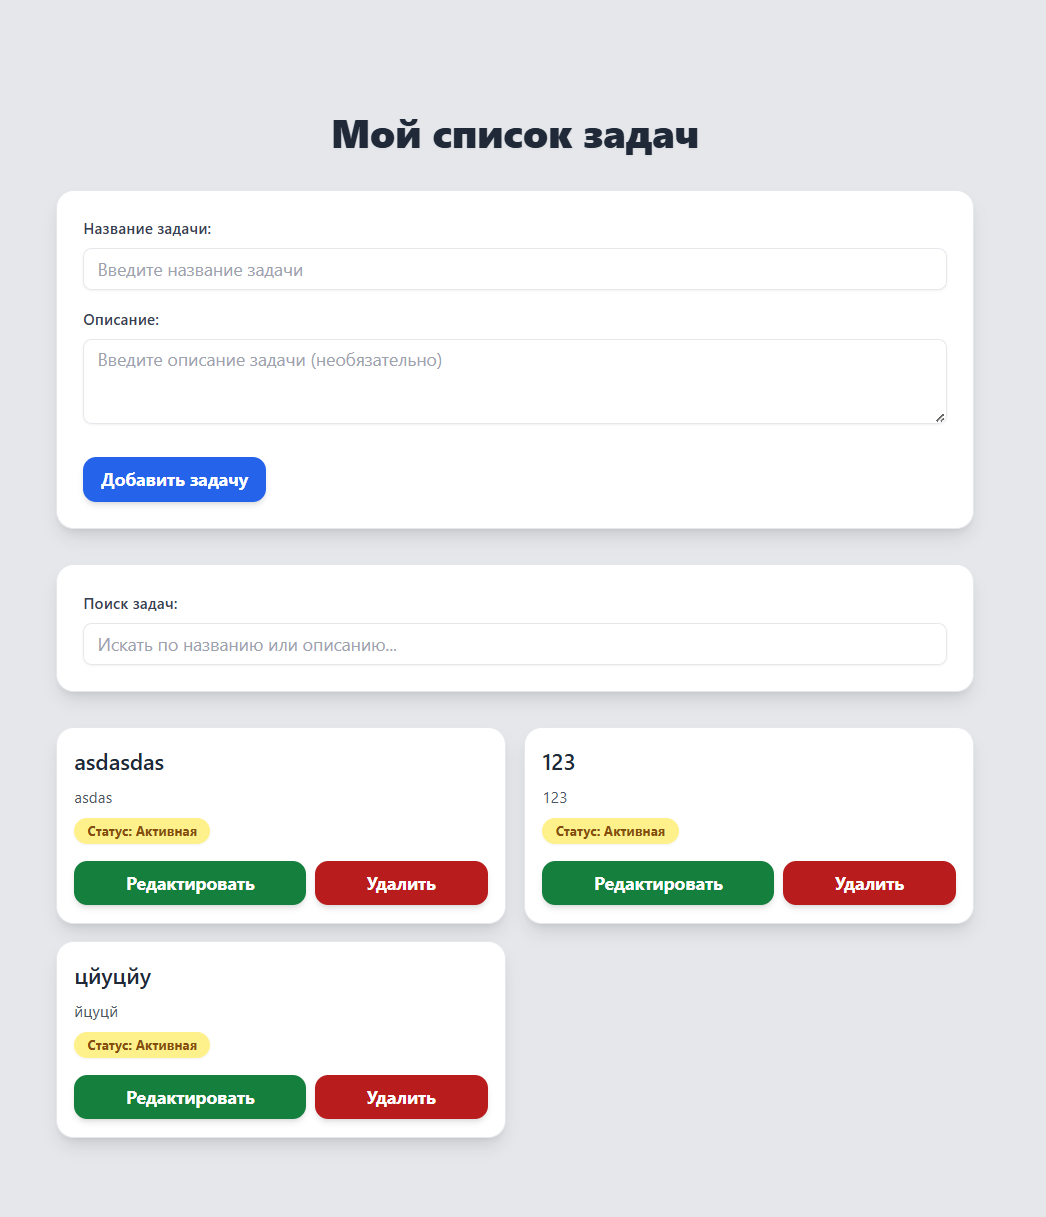
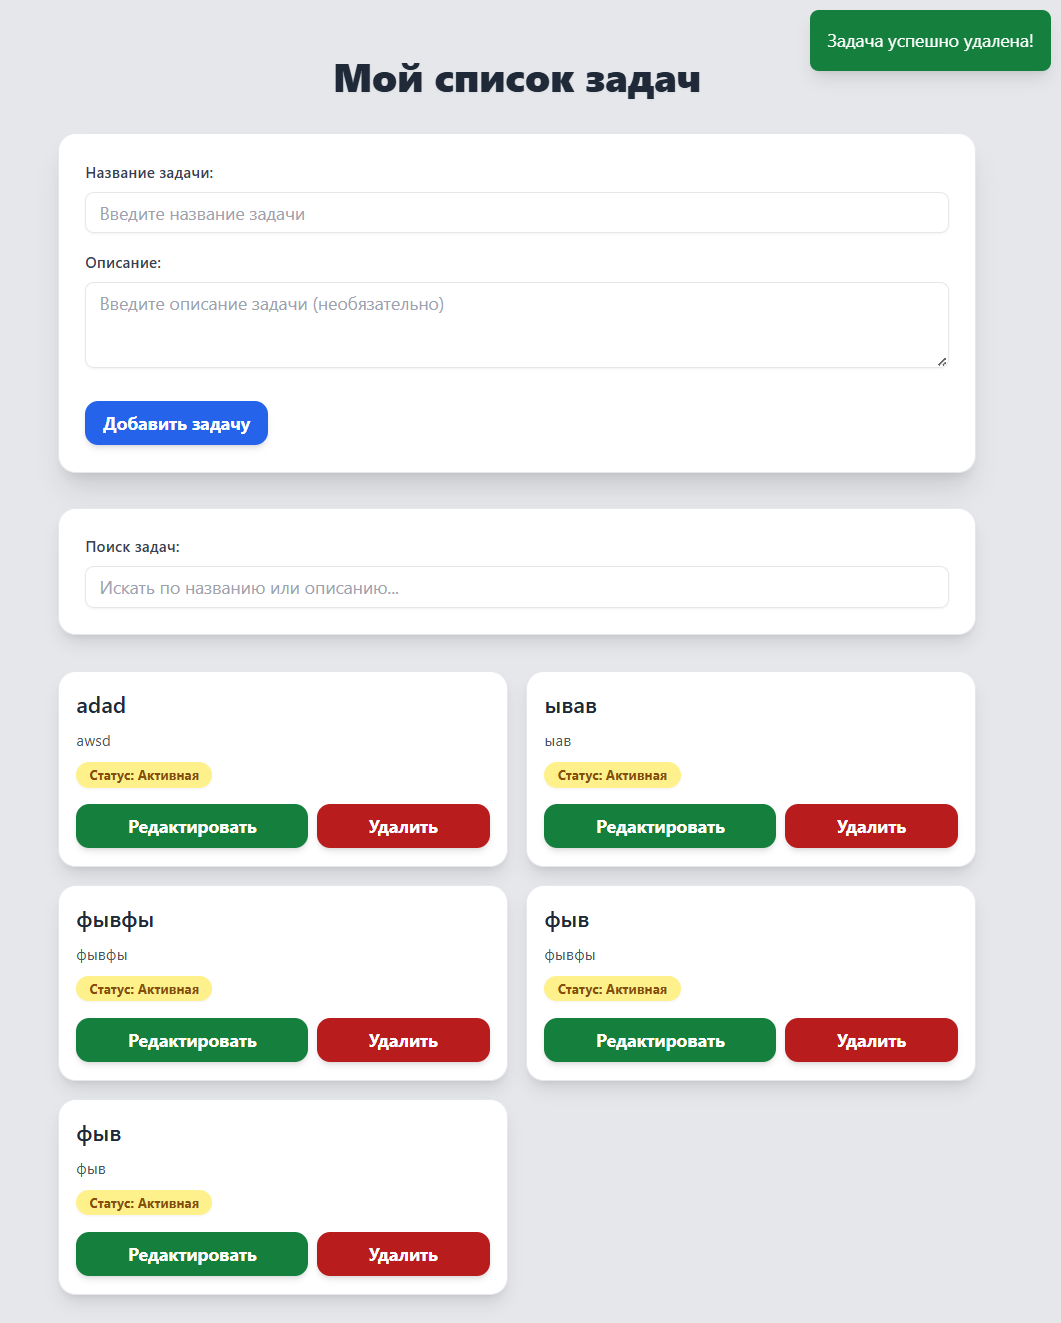
Added search and animation

diff --git a/src/routes/+page.svelte b/src/routes/+page.svelte
@@ -1,32 +1,23 @@
 <script lang="ts">
-	// Импорт необходимых модулей Svelte
 	import { onMount } from 'svelte';
 	import { writable, derived } from 'svelte/store';
-	import { flip } from 'svelte/animate'; // Импорт для анимации
+	import { flip } from 'svelte/animate';
+	import { fly, fade } from 'svelte/transition';
 
-	// Импорт библиотеки Dexie для работы с IndexDB
 	import Dexie from 'dexie';
 
-	// Определение интерфейса для задачи
 	interface Task {
-		id?: number; // ID будет генерироваться автоматически Dexie
+		id?: number;
 		title: string;
 		description?: string;
 		status: 'active' | 'completed';
 	}
 
-	// Создание экземпляра базы данных Dexie
-	// 'todoDatabase' - название базы данных
-	// 'tasks' - название таблицы (store)
-	// '++id' - автоинкрементный первичный ключ
-	// '&title' - уникальный индекс по полю title (для поиска)
-	// 'status' - индекс по полю status
 	const db = new Dexie('todoDatabase');
 	db.version(1).stores({
-		tasks: '++id, title, description, status' // Определение схемы таблицы
+		tasks: '++id, title, description, status'
 	});
 
-	// Инициализация базы данных начальными данными, если она пуста
 	db.on('populate', async () => {
 		await db.table('tasks').bulkAdd([
 			{ title: 'Купить продукты', description: 'Молоко, хлеб, яйца', status: 'active' },
@@ -35,26 +26,21 @@
 		]);
 	});
 
-	// Svelte Store для хранения списка задач
 	const tasks = writable<Task[]>([]);
 
-	// Переменные для полей формы
 	let newTaskTitle: string = '';
 	let newTaskDescription: string = '';
-	let editingTask: Task | null = null; // Хранит задачу, которая сейчас редактируется
+	let editingTask: Task | null = null;
 
-	// Переменная для поискового запроса, теперь это Svelte Store
 	const searchQuery = writable<string>('');
 
-	// Derived store для фильтрации задач по поисковому запросу
 	const filteredTasks = derived(
-		[tasks, searchQuery], // Зависимости: основной список задач и поисковый запрос
+		[tasks, searchQuery],
 		([$tasks, $searchQuery], set) => {
 			const lowerCaseQuery = $searchQuery.toLowerCase().trim();
 			if (!lowerCaseQuery) {
-				set($tasks); // Если запрос пуст, показываем все задачи
+				set($tasks);
 			} else {
-				// Фильтруем задачи по названию или описанию (без учета регистра)
 				const filtered = $tasks.filter(task =>
 					task.title.toLowerCase().includes(lowerCaseQuery) ||
 					(task.description && task.description.toLowerCase().includes(lowerCaseQuery))
@@ -64,151 +50,108 @@
 		}
 	);
 
-	// Переменные для кастомного модального окна
-	let showModal: boolean = false;
-	let modalMessage: string = '';
-	let isConfirmModal: boolean = false;
-	let confirmAction: (() => void) | null = null; // Функция, которая будет выполнена при подтверждении
-
-	// Флаг состояния загрузки для скелетона
 	let isLoading: boolean = true;
 
-	// Функция для отображения кастомного алерта
-	function showAlert(message: string) {
-		modalMessage = message;
-		isConfirmModal = false;
-		showModal = true;
+	const notifications = writable<{ id: number; message: string; type: 'success' | 'error' }[]>([]);
+	let notificationIdCounter = 0;
+
+	function addNotification(message: string, type: 'success' | 'error') {
+		const id = notificationIdCounter++;
+		notifications.update(n => [...n, { id, message, type }]);
+		setTimeout(() => {
+			notifications.update(n => n.filter(notification => notification.id !== id));
+		}, 2000);
 	}
 
-	// Функция для отображения кастомного окна подтверждения
-	function showConfirm(message: string, action: () => void) {
-		modalMessage = message;
-		isConfirmModal = true;
-		confirmAction = action;
-		showModal = true;
-	}
-
-	// Функция для закрытия модального окна
-	function closeModal() {
-		showModal = false;
-		modalMessage = '';
-		isConfirmModal = false;
-		confirmAction = null;
-	}
-
-	// Функция для подтверждения действия в модальном окне
-	function handleConfirm() {
-		if (confirmAction) {
-			confirmAction();
-		}
-		closeModal();
-	}
-
-	// Функция для загрузки задач из IndexDB
 	async function loadTasks() {
-		isLoading = true; // Устанавливаем флаг загрузки в true
+		isLoading = true;
 		try {
 			const allTasks = await db.table<Task>('tasks').toArray();
-			tasks.set(allTasks); // Обновляем Svelte Store
+			tasks.set(allTasks);
 		} catch (error) {
 			console.error('Ошибка при загрузке задач:', error);
-			showAlert('Ошибка при загрузке задач. Пожалуйста, попробуйте позже.');
+			addNotification('Ошибка при загрузке задач. Пожалуйста, попробуйте позже.', 'error');
 		} finally {
-			isLoading = false; // Устанавливаем флаг загрузки в false после завершения
+			isLoading = false;
 		}
 	}
 
-	// Функция для добавления или обновления задачи
 	async function handleSubmit() {
-		// Проверяем, что название задачи не пустое
 		if (!newTaskTitle.trim()) {
-			showAlert('Название задачи не может быть пустым!');
+			addNotification('Название задачи не может быть пустым!', 'error');
 			return;
 		}
 
 		if (editingTask) {
-			// Режим редактирования
 			try {
 				await db.table('tasks').update(editingTask.id!, {
 					title: newTaskTitle.trim(),
 					description: newTaskDescription.trim(),
 				});
 				console.log('Задача обновлена успешно!');
-				showAlert('Задача успешно обновлена!');
+				addNotification('Задача успешно обновлена!', 'success');
 			} catch (error) {
 				console.error('Ошибка при обновлении задачи:', error);
-				showAlert('Ошибка при обновлении задачи. Пожалуйста, попробуйте позже.');
+				addNotification('Ошибка при обновлении задачи. Пожалуйста, попробуйте позже.', 'error');
 			} finally {
-				editingTask = null; // Сбрасываем режим редактирования
+				editingTask = null;
 			}
 		} else {
-			// Режим добавления новой задачи
 			const task: Task = {
 				title: newTaskTitle.trim(),
 				description: newTaskDescription.trim(),
-				status: 'active', // Новая задача всегда активна
+				status: 'active',
 			};
 			try {
 				await db.table('tasks').add(task);
 				console.log('Задача добавлена успешно!');
-				showAlert('Задача успешно добавлена!');
+				addNotification('Задача успешно добавлена!', 'success');
 			} catch (error) {
 				console.error('Ошибка при добавлении задачи:', error);
-				showAlert('Ошибка при добавлении задачи. Пожалуйста, попробуйте позже.');
+				addNotification('Ошибка при добавлении задачи. Пожалуйста, попробуйте позже.', 'error');
 			}
 		}
 
-		// Очищаем форму и перезагружаем задачи
 		newTaskTitle = '';
 		newTaskDescription = '';
 		await loadTasks();
 	}
 
-	// Функция для перехода в режим редактирования
 	function editTask(task: Task) {
 		editingTask = task;
 		newTaskTitle = task.title;
 		newTaskDescription = task.description || '';
 	}
 
-	// Функция для удаления задачи
 	async function deleteTask(id: number | undefined) {
-		if (id === undefined) return; // Проверка на undefined ID
+		if (id === undefined) return;
 
-		// Используем кастомное окно подтверждения
-		showConfirm('Вы уверены, что хотите удалить эту задачу?', async () => {
-			try {
-				await db.table('tasks').delete(id);
-				console.log('Задача удалена успешно!');
-				showAlert('Задача успешно удалена!');
-				await loadTasks(); // Перезагружаем задачи после удаления
-			} catch (error) {
-				console.error('Ошибка при удалении задачи:', error);
-				showAlert('Ошибка при удалении задачи. Пожалуйста, попробуйте позже.');
-			}
-		});
+		try {
+			await db.table('tasks').delete(id);
+			console.log('Задача удалена успешно!');
+			addNotification('Задача успешно удалена!', 'success');
+			await loadTasks();
+		} catch (error) {
+			console.error('Ошибка при удалении задачи:', error);
+			addNotification('Ошибка при удалении задачи. Пожалуйста, попробуйте позже.', 'error');
+		}
 	}
 
-	// Загружаем задачи при монтировании компонента
 	onMount(async () => {
 		await loadTasks();
 	});
 </script>
 
 <style>
-    /* Убедимся, что шрифт Inter используется по умолчанию */
     body {
         font-family: 'Inter', sans-serif;
     }
 </style>
 
-<!-- Основной контейнер с фоном и центрированием -->
-<div class="min-h-screen bg-gray-200 p-4 sm:p-6 lg:p-8 flex flex-col items-center justify-center">
-	<!-- Главный контейнер приложения с мягкой тенью и скруглениями -->
+<div class="min-h-screen bg-gray-200 p-4 sm:p-6 lg:p-8 flex flex-col items-center justify-start">
 	<div class="w-full max-w-4xl p-6 sm:p-8">
 		<h1 class="text-3xl sm:text-4xl font-extrabold text-center text-gray-800 mb-8 drop-shadow-sm">Мой список задач</h1>
 
-		<!-- Форма добавления/редактирования задачи с мягкой тенью и скруглениями -->
 		<form on:submit|preventDefault={handleSubmit} class="mb-8 p-4 sm:p-6 bg-white rounded-2xl shadow-lg border border-gray-200 transition duration-300 ease-in-out hover:shadow-xl">
 			<div class="mb-4">
 				<label for="title" class="block text-gray-700 text-sm font-semibold mb-2">Название задачи:</label>
@@ -239,7 +182,6 @@
 			</button>
 		</form>
 
-		<!-- Поле поиска -->
 		<div class="mb-8 p-4 sm:p-6 bg-white rounded-2xl shadow-lg border border-gray-200">
 			<label for="search" class="block text-gray-700 text-sm font-semibold mb-2">Поиск задач:</label>
 			<input
@@ -251,7 +193,6 @@
 			/>
 		</div>
 
-		<!-- Список задач -->
 		{#if isLoading}
 			<div class="grid grid-cols-1 md:grid-cols-2 gap-4">
 				{#each Array(4) as _, i (i)}
@@ -278,7 +219,6 @@
 		{:else}
 			<div class="grid grid-cols-1 md:grid-cols-2 gap-4">
 				{#each $filteredTasks as task (task.id)}
-					<!-- Карточка задачи с мягкой тенью и микровзаимодействиями -->
 					<div
 						animate:flip={{ duration: 300 }}
 						class="bg-white p-4 rounded-2xl shadow-lg flex flex-col justify-between border border-gray-200 transition duration-300 ease-in-out hover:shadow-xl"
@@ -288,7 +228,6 @@
 							{#if task.description}
 								<p class="text-gray-600 text-sm mb-2">{task.description}</p>
 							{/if}
-							<!-- Акцент на цвете статуса -->
 							<span class="text-xs font-bold px-3 py-1 rounded-full {task.status === 'active' ? 'bg-yellow-200 text-yellow-800' : 'bg-green-200 text-green-800'} shadow-sm">
                 Статус: {task.status === 'active' ? 'Активная' : 'Завершена'}
               </span>
@@ -314,34 +253,14 @@
 	</div>
 </div>
 
-<!-- Кастомное модальное окно -->
-{#if showModal}
-	<div class="fixed inset-0 bg-gray-900 bg-opacity-50 flex items-center justify-center p-4 z-50">
-		<div class="bg-white rounded-lg shadow-xl p-6 sm:p-8 max-w-sm w-full text-center">
-			<p class="text-lg font-semibold text-gray-800 mb-6">{modalMessage}</p>
-			{#if isConfirmModal}
-				<div class="flex justify-center gap-4">
-					<button
-						on:click={handleConfirm}
-						class="bg-blue-600 hover:bg-blue-700 text-white font-bold py-2 px-4 rounded-lg shadow-md transition duration-300 ease-in-out focus:outline-none focus:ring-2 focus:ring-blue-400 focus:ring-opacity-75"
-					>
-						Да
-					</button>
-					<button
-						on:click={closeModal}
-						class="bg-gray-300 hover:bg-gray-400 text-gray-800 font-bold py-2 px-4 rounded-lg shadow-md transition duration-300 ease-in-out focus:outline-none focus:ring-2 focus:ring-gray-400 focus:ring-opacity-75"
-					>
-						Отмена
-					</button>
-				</div>
-			{:else}
-				<button
-					on:click={closeModal}
-					class="bg-blue-600 hover:bg-blue-700 text-white font-bold py-2 px-4 rounded-lg shadow-md transition duration-300 ease-in-out focus:outline-none focus:ring-2 focus:ring-blue-400 focus:ring-opacity-75"
-				>
-					ОК
-				</button>
-			{/if}
+<div class="fixed top-4 right-4 z-50 flex flex-col space-y-2">
+	{#each $notifications as notification (notification.id)}
+		<div
+			class="p-4 rounded-lg shadow-lg text-white {notification.type === 'success' ? 'bg-green-700' : 'bg-red-700'} bg-opacity-80 transition-opacity duration-300 ease-in-out"
+			in:fly="{{ y: -20, duration: 300 }}"
+			out:fade="{{ duration: 300 }}"
+		>
+			{notification.message}
 		</div>
-	</div>
-{/if}
+	{/each}
+</div>

diff --git a/src/routes/+layout.svelte b/src/routes/+layout.svelte
@@ -5,4 +5,3 @@
 </script>
 
 {@render children()}
-ф

diff --git a/README.md b/README.md
@@ -80,5 +80,11 @@
 - Добавь поиск по задачам
 - Добавь анимацию flip к карточкам задач
 - Добавь прелоадер скелетон на 4 задачи, пока они загружаются 
+- Добавь уведомления (Тосты) в правом верхнем углу, при удалеии и добавлении задачи
 ```
 ![img.png](forReadme/img_2.png)
+
+Ну и на финал
+```
+Удали все комментарии
+```
